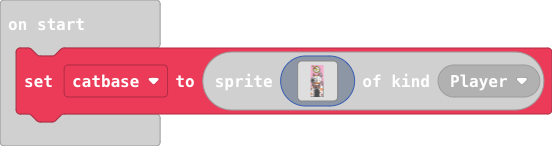
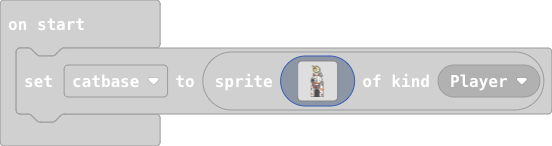
Update pxt.json, main.blocks, main.ts

Changed region(s): [[0.0, 0.3014, 1.0, 0.8493], [0.5543, 0.4384, 0.5851, 0.5479]]

diff --git a/main.ts b/main.ts
@@ -1,58 +1,58 @@
 let catbase = sprites.create(img`
-    33333333333333333333333333333333
-    33333ff3333333333333333333333333
-    3333f55f33333ffff333333333333333
-    3333f55f333ff5555ff3333333333333
-    33333ff5f3f55ffff55f333333333333
-    3333333f5f5ff1111ff5f33333333333
-    3333333ff5f22f11111f5f3333333333
-    333333f5ff5f2f111111f5f333333333
-    333333f5f2f22f1f1111f5f333333333
-    33333f5ff222f5f5f1111f5f33333333
-    33333f5f1fff555f5f111f5f33333333
-    33333f5f1111f5555f111f5f33333333
-    33333f5f111f5f55f1111f5f33333333
-    333333f5f111f55f1111f5f333333333
-    333333f5f1111ff11111f5f333333333
-    3333333f5f111111111f5f1f33333333
-    33333333f5ff11111ff5fbb1f3333333
-    333333333f55fffff55f3fb1f3333333
-    3333333333ff55555ff333fb1f333333
-    333333333333fffff33333fb1f333333
-    3333333f333333333333f33fb1f33333
-    333333f4f3333333333f4f3fb1f33333
-    333333f44f33333333f44f33fb1f3333
-    333333f4f4f3333333f4f4f3fb1f3333
-    333333f4f4f333333f4ff4f33fb1f333
-    333333f4ff4fffffff4ff4f333fff333
-    333333f4fff4444411fff4f33fbb1f33
-    3333333ff114444111111ff3ffbb1f33
-    333333f1111444111111111fbbfff333
-    33333f11ff111111ff111111f1f33333
-    3333f111ff111111ff1111111f333333
-    3333f111111111111111111111f33333
-    33ffffffffffff111111111111f33333
-    3f11111f111111f111111111111f3333
-    f11fffbbfbbbbbbf1111fff1111f3333
-    f1fcfffbf111111f11111111111f3333
-    1fcfffffbfbbbbbbf1111111111f3333
-    1fcfffffbfbbbbbbf111fff1111f3333
-    1fcfffffbfbbbbbbf1111111114f3333
-    bfcfffffbfbbbbbbf111111114f33333
-    fbfcfffbfbbbbbbf111111114fffff33
-    fbbfffbbfbbbbbbf44111114f11f11f3
-    3fbbbbbfbbbbbbf44444114fbbbfb1f3
-    33ffffffffffff44444444fbbbf3fff3
-    333fbff444444444444444fbff33fbf3
-    333fbf3ff444444444444fff3333fbf3
-    333fbf3feffffffffffffef33333fbf3
-    333fbffef1eee111111feffff333fbf3
-    333fbfef1eeeee11111fef111ff3fbf3
-    333fffef11eee111111fef11114ffbf3
-    333f4ffffffffffffffffffe1114fbf3
-    33f44feeeeeeffeeeeeefefee1111ff3
-    3f144feeeeeeffeeeeeefefee11111f3
-    3f114feeeffeeeeffeeefefe111111f3
+    ................................
+    .....ff.........................
+    ....f55f.....ffff...............
+    ....f55f...ff5555ff.............
+    .....ff5f.f55ffff55f............
+    .......f5f5ff1111ff5f...........
+    .......ff5f22f11111f5f..........
+    ......f5ff5f2f111111f5f.........
+    ......f5f2f22f1f1111f5f.........
+    .....f5ff222f5f5f1111f5f........
+    .....f5f1fff555f5f111f5f........
+    .....f5f1111f5555f111f5f........
+    .....f5f111f5f55f1111f5f........
+    ......f5f111f55f1111f5f.........
+    ......f5f1111ff11111f5f.........
+    .......f5f111111111f5f1f........
+    ........f5ff11111ff5fbb1f.......
+    .........f55fffff55f.fb1f.......
+    ..........ff55555ff...fb1f......
+    ............fffff.....fb1f......
+    .......f............f..fb1f.....
+    ......f4f..........f4f.fb1f.....
+    ......f44f........f44f..fb1f....
+    ......f4f4f.......f4f4f.fb1f....
+    ......f4f4f......f4ff4f..fb1f...
+    ......f4ff4fffffff4ff4f...fff...
+    ......f4fff4444411fff4f..fbb1f..
+    .......ff114444111111ff.ffbb1f..
+    ......f1111444111111111fbbfff...
+    .....f11ff111111ff111111f1f.....
+    ....f111ff111111ff1111111f......
+    ....f111111111111111111111f.....
+    ..ffffffffffff111111111111f.....
+    .f11111f111111f111111111111f....
+    f11fffbbfbbbbbbf1111fff1111f....
+    f1fcfffbf111111f11111111111f....
+    1fcfffffbfbbbbbbf1111111111f....
+    1fcfffffbfbbbbbbf111fff1111f....
+    1fcfffffbfbbbbbbf1111111114f....
+    bfcfffffbfbbbbbbf111111114f.....
+    fbfcfffbfbbbbbbf111111114fffff..
+    fbbfffbbfbbbbbbf44111114f11f11f.
+    .fbbbbbfbbbbbbf44444114fbbbfb1f.
+    ..ffffffffffff44444444fbbbf.fff.
+    ...fbff444444444444444fbff..fbf.
+    ...fbf.ff444444444444fff....fbf.
+    ...fbf.feffffffffffffef.....fbf.
+    ...fbffef1eee111111feffff...fbf.
+    ...fbfef1eeeee11111fef111ff.fbf.
+    ...fffef11eee111111fef11114ffbf.
+    ...f4ffffffffffffffffffe1114fbf.
+    ..f44feeeeeeffeeeeeefefee1111ff.
+    .f144feeeeeeffeeeeeefefee11111f.
+    .f114feeeffeeeeffeeefefe111111f.
     f1111feeeffeffeffeeefefb1111111f
     f1111feeeeeffffeeeeefefb1111111f
     fee11feeeeeffffeeeeefefb1111111f
